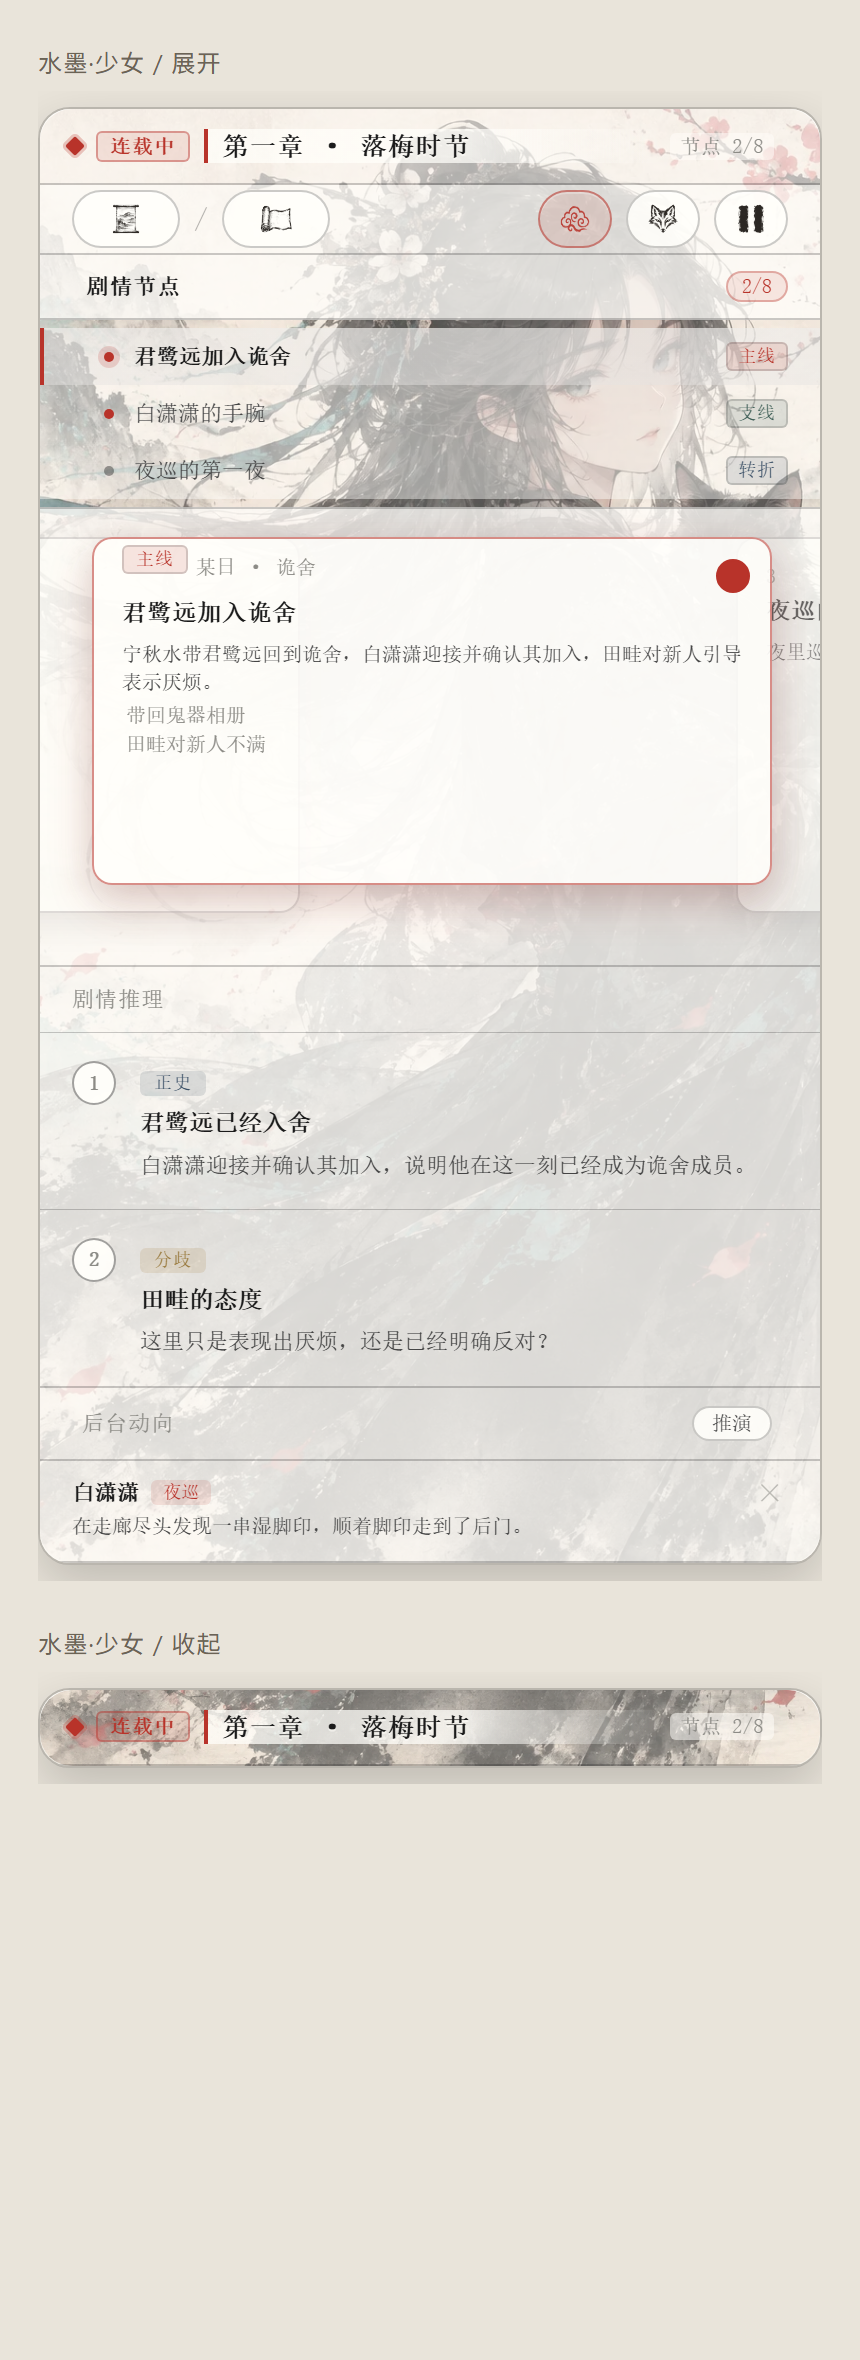
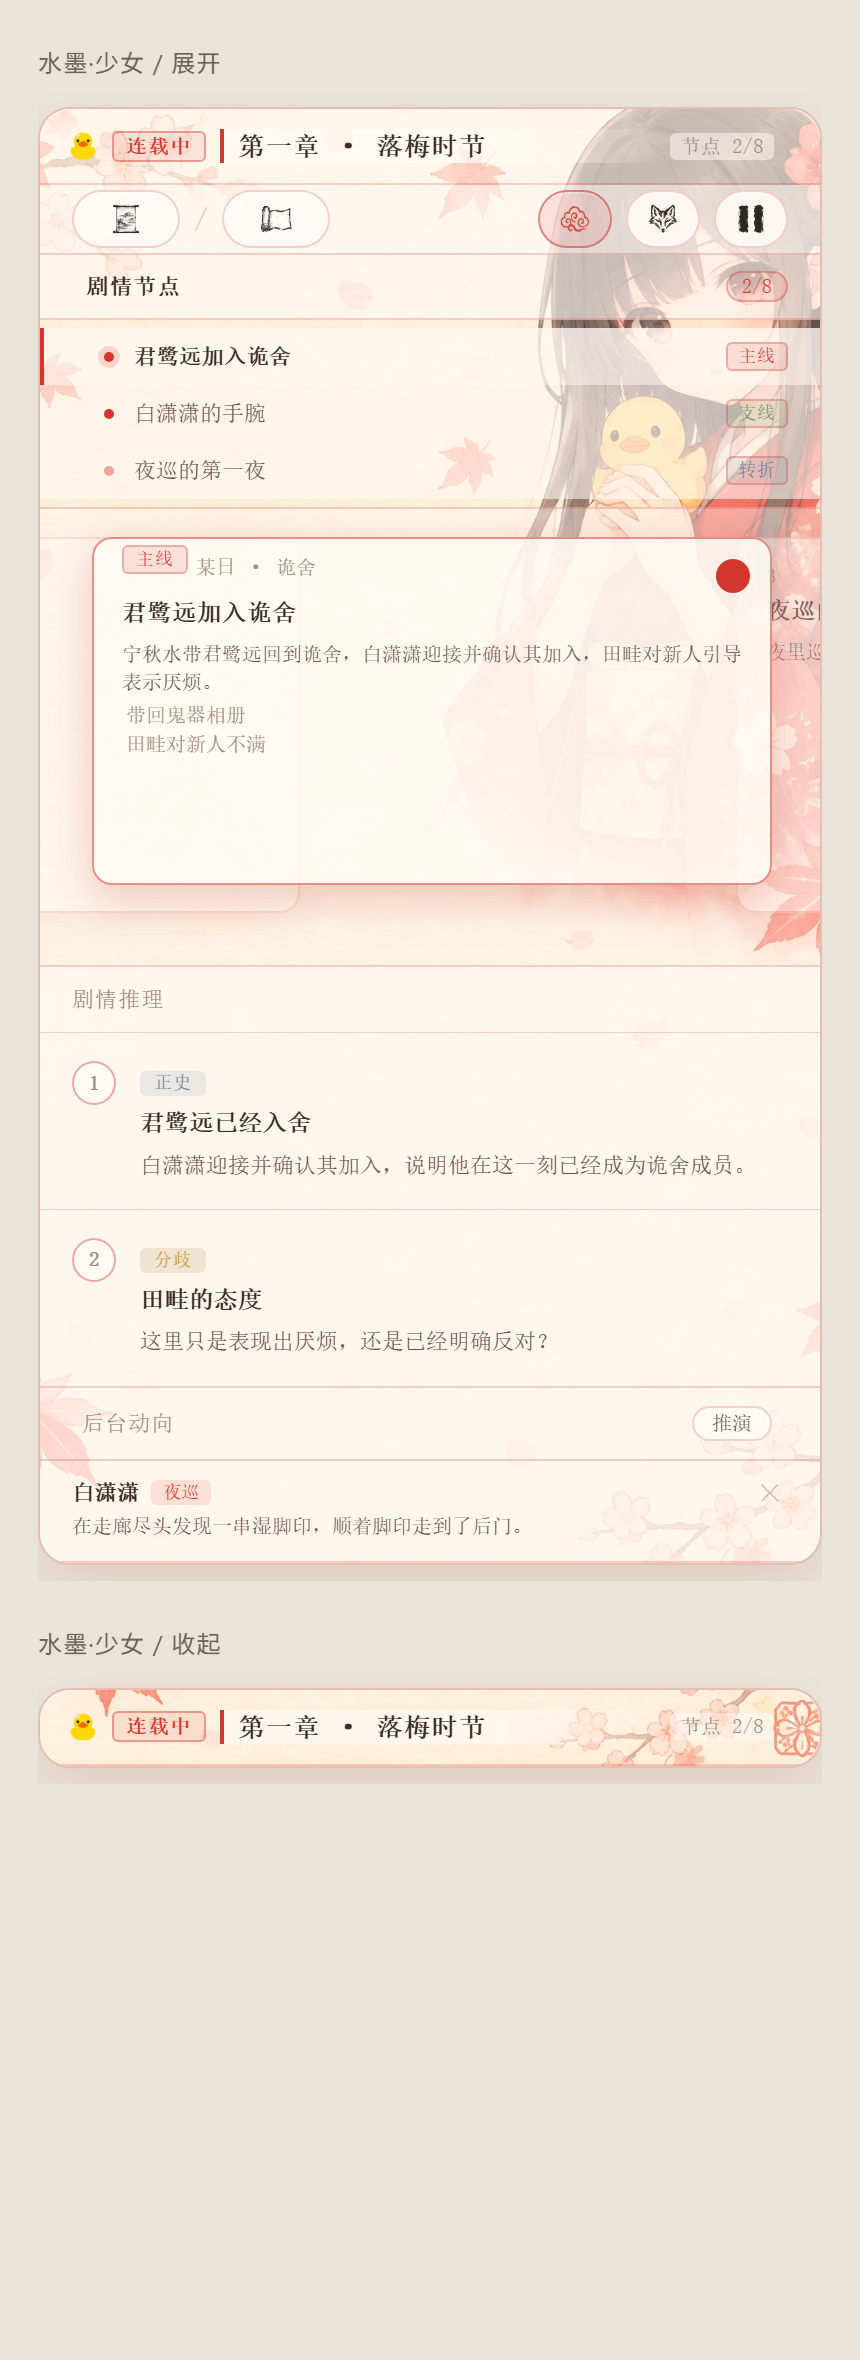
feat: 绘梨衣·小黄鸭主题 (v1.3.0)

diff --git a/style.css b/style.css
@@ -128,6 +128,80 @@ html body #ni-storybar.ni-tb-shell.nb-theme-night {
     --nb-card-shadow: 0 6px 18px rgba(0, 0, 0, 0.35);
 }
 
+/* 绘梨衣：朱红和服 + 米白和纸 + 小黄鸭 */
+html body #ni-storybar.ni-tb-shell.nb-theme-eri {
+    --nb-shell-bg: #fdf4ee;
+    --nb-paper-rgb: 255, 250, 245;
+    --nb-scrim-rgb: 253, 244, 238;
+    --nb-ink: #3a2b28;
+    --nb-ink-2: #6b524c;
+    --nb-ink-3: #a08b82;
+    --nb-line: rgba(212, 55, 47, 0.22);
+    --nb-line-strong: rgba(212, 55, 47, 0.42);
+    --nb-accent: #d4372f;
+    --nb-accent-rgb: 212, 55, 47;
+    --nb-duck: #f7c531;
+    --nb-jade: #7c9a6a;
+    --nb-jade-rgb: 124, 154, 106;
+    --nb-indigo: #6f86a0;
+    --nb-indigo-rgb: 111, 134, 160;
+    --nb-ochre: #c9a24a;
+    --nb-shell-shadow: 0 12px 28px rgba(180, 90, 60, 0.16), inset 0 1px 0 rgba(255, 255, 255, 0.85);
+    --nb-card-shadow: 0 6px 18px rgba(180, 90, 60, 0.13);
+
+    /* 把插件自带的粉/绿换成她的朱红与米白 */
+    --ni-warning: #d4372f;
+    --ni-warning-soft: #fbe6e2;
+    --ni-warning-soft-2: #fdf6f2;
+    --ni-warning-alpha-15: rgba(212, 55, 47, 0.15);
+    --ni-warning-alpha-14: rgba(212, 55, 47, 0.14);
+    --ni-warning-alpha-20: rgba(212, 55, 47, 0.20);
+    --ni-warning-alpha-30: rgba(212, 55, 47, 0.30);
+    --ni-warning-alpha-35: rgba(212, 55, 47, 0.35);
+    --ni-warning-alpha-50: rgba(212, 55, 47, 0.50);
+    --ni-primary: #b03026;
+    --ni-primary-soft: #fbeae6;
+    --ni-primary-soft-text: #a02a20;
+    --ni-success-soft: #eef3e6;
+    --ni-success-text: #4d6b3f;
+    --ni-pivot-soft: #f3ebe6;
+    --ni-pivot-text: #705a52;
+}
+
+/* 绘梨衣：底图提一点饱和/对比，别整块发灰 */
+html body #ni-storybar.ni-tb-shell.nb-theme-eri::before {
+    filter: saturate(1.15) contrast(1.05);
+}
+/* 内容区纸帘薄一点，让和纸底纹与裙子颜色透出来 */
+html body #ni-storybar.ni-tb-shell.nb-theme-eri .ni-tb-body {
+    background-color: rgba(var(--nb-paper-rgb), calc(var(--nb-paper-a2) * 0.22)) !important;
+}
+
+/* 小黄鸭当状态灯 */
+html body #ni-storybar.ni-tb-shell.nb-theme-eri .ni-tb-pin {
+    width: 15px !important;
+    height: 15px !important;
+    border-radius: 0 !important;
+    transform: none !important;
+    box-shadow: none !important;
+    background: url('assets/eri-duck.webp') center / contain no-repeat !important;
+}
+
+/* 节点行、标签都垫暖纸，别让字压在人物上 */
+html body #ni-storybar.ni-tb-shell.nb-theme-eri .ni-tb-np-row,
+html body #ni-storybar.ni-tb-shell.nb-theme-eri .ni-tb-sp-row {
+    background-color: rgba(var(--nb-paper-rgb), calc(var(--nb-paper-a2) * 0.68)) !important;
+}
+html body #ni-storybar.ni-tb-shell.nb-theme-eri .ni-tb-np-row.active {
+    background-color: rgba(var(--nb-paper-rgb), calc(var(--nb-paper-a2) * 0.92)) !important;
+}
+html body #ni-storybar.ni-tb-shell.nb-theme-eri .ni-tb-np-type,
+html body #ni-storybar.ni-tb-shell.nb-theme-eri .ni-tb-sc-type {
+    background-color: #fbe9e4 !important;
+    color: #9c2a20 !important;
+    border: 1px solid rgba(212, 55, 47, 0.30) !important;
+}
+
 /* 黑白水墨：纸白、墨黑、一点朱砂 */
 html body #ni-storybar.ni-tb-shell.nb-theme-bw {
     --nb-shell-bg: #fbfaf7;

diff --git a/index.js b/index.js
@@ -27,10 +27,13 @@ const ASSETS = {
     sakura: BASE + 'assets/sakura.webp',
     bw: BASE + 'assets/ink-bw.webp',
     paper: BASE + 'assets/paper-bw.webp',
+    eri: BASE + 'assets/eri-bg.webp',
+    eriInner: BASE + 'assets/eri-inner.webp',
     plain: '',
 };
 
 const PRESETS = [
+    { id: 'eri', name: '绘梨衣·小黄鸭', img: () => ASSETS.eri, tone: 'eri' },
     { id: 'bw', name: '黑白·抱猫', img: () => ASSETS.bw, tone: 'bw' },
     { id: 'ink', name: '水墨·少女', img: () => ASSETS.ink, tone: 'ink' },
     { id: 'clean', name: '水墨·山水', img: () => ASSETS.clean, tone: 'ink' },
@@ -43,7 +46,7 @@ const PRESETS = [
 
 const DEFAULT = {
     enabled: true,
-    preset: 'bw',
+    preset: 'eri',
     image: '',
     tone: 'ink',        // 自定义图使用浅色还是深色文字
     pos: 'top',         // 收起时的取景：top / center / bottom（展开后自动居中）
@@ -163,7 +166,8 @@ function apply() {
     const img = imgOf(e);
     el.style.setProperty('--nb-img', img ? `url("${img}")` : 'none');
     // 框架内的内容区底纹：黑白水墨用宣纸山水，其余主题不铺
-    el.style.setProperty('--nb-img2', e.preset === 'bw' ? `url("${ASSETS.paper}")` : 'none');
+    const innerOf = { bw: ASSETS.paper, eri: ASSETS.eriInner };
+    el.style.setProperty('--nb-img2', innerOf[e.preset] ? `url("${innerOf[e.preset]}")` : 'none');
     el.style.setProperty('--nb-pos', e.pos === 'top' || e.pos === 'bottom' ? e.pos : 'center');
     el.style.setProperty('--nb-paper-a', String(e.paper));
     el.style.setProperty('--nb-alpha', String(e.alpha));
